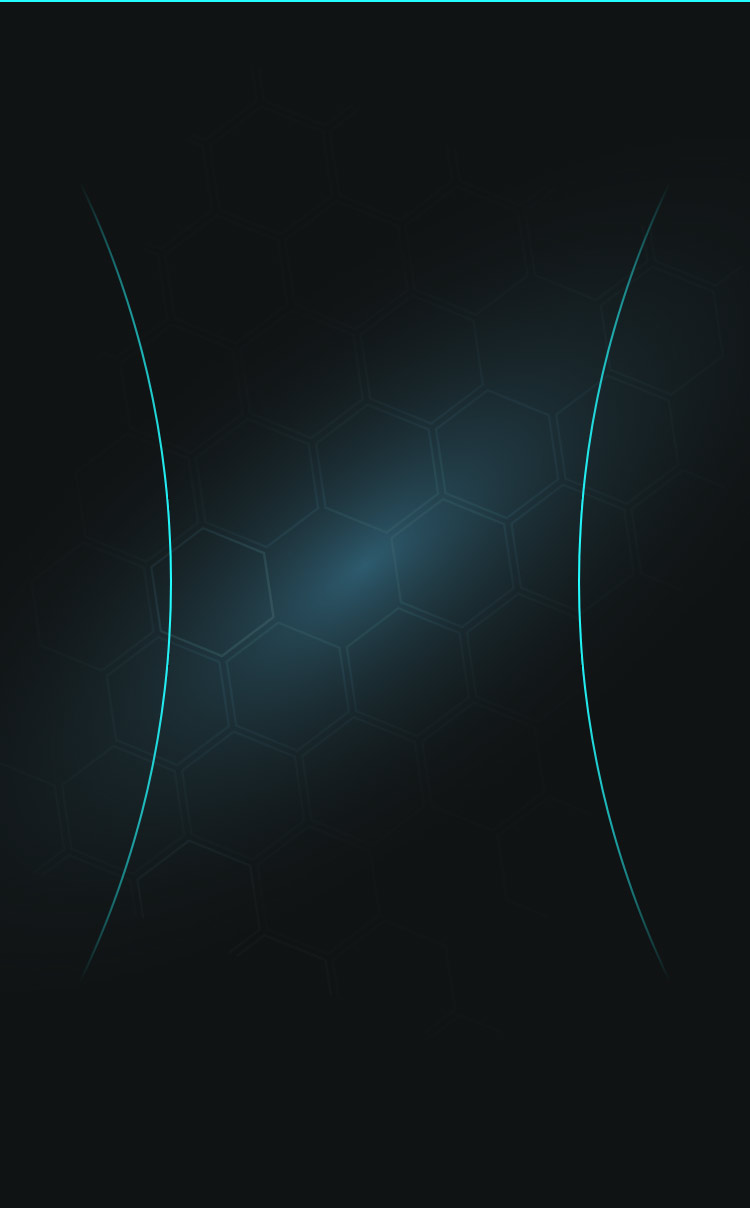
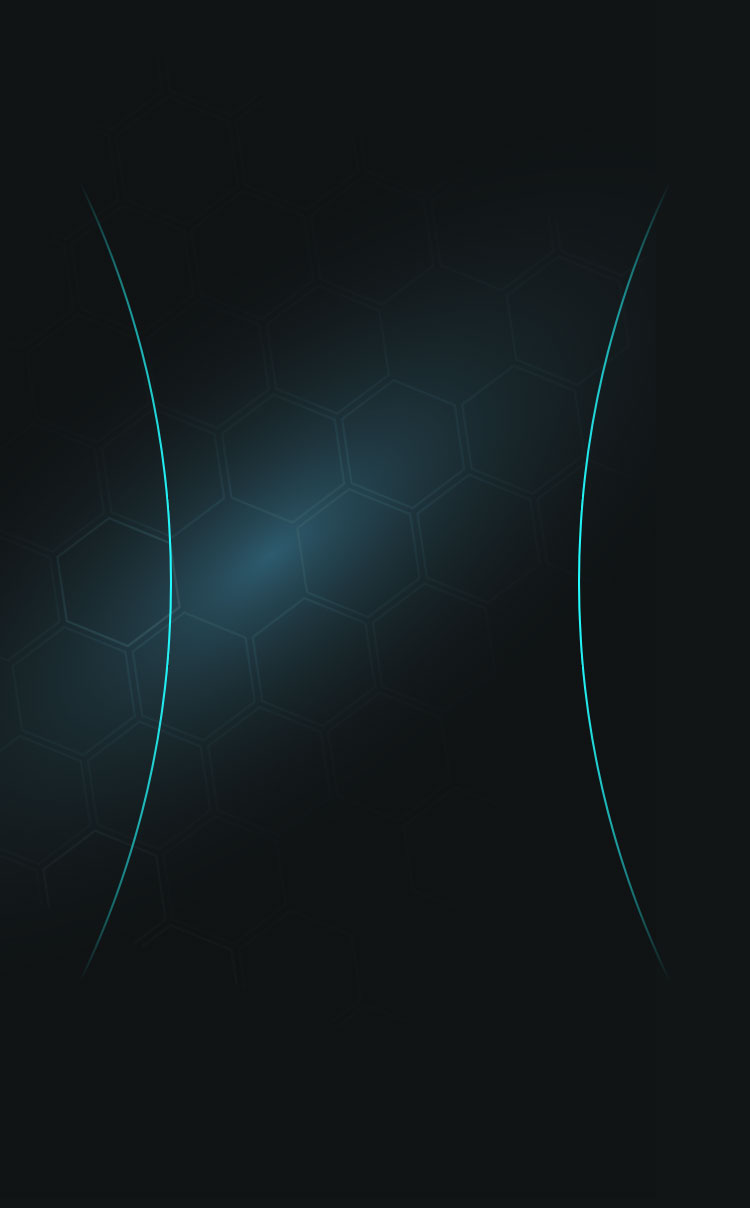
调整首页布局。

diff --git a/src/pages/index.js b/src/pages/index.js
@@ -85,49 +85,51 @@ export default class Index extends Component {
   render() {
     const { activeNode, modelVis, firePrice = 0.4025 } = this.state;
     return (
-      <View className='index page'>
-        {
-          this.editions.map(item =>
-          <View
-            key={item.edition}
-            onClick={this.changeVersion.bind(this,item.edition)}
-            className={`BoxAvatar ${item.edition} ${activeNode === null ? '' : item.edition === activeNode ? 'acShow' : 'acHide'}`}
-          >
-            <Image
-              src={item.img}
-              mode='aspectFill'
-              className='indexAtAvatar'
-            />
-          </View>
-          )
-        }
-        <Image
-          src={require('../assets/fire.png')}
-          className='frieImage'
-          onClick={this.showModel}
-        />
-        <AtModal
-          isOpened={modelVis}
-          onClose={this.handleClose}
-          onCancel={this.handleClose}
-          onConfirm={this.handleClose}
-          className='formContent'
-        >
-          <AtModalContent>
-            <AtForm
-              onSubmit={this.handleSubmit}
-              className='formBoder'
+      <View className='page indexPage'>
+        <View className='index'>
+          {
+            this.editions.map(item =>
+            <View
+              key={item.edition}
+              onClick={this.changeVersion.bind(this,item.edition)}
+              className={`BoxAvatar ${item.edition} ${activeNode === null ? '' : item.edition === activeNode ? 'acShow' : 'acHide'}`}
             >
-              <AtInput
-                name='value'
-                title='火电价格'
-                type='number'
-                placeholder={`默认火电价格${firePrice}`}
+              <Image
+                src={item.img}
+                mode='aspectFill'
+                className='indexAtAvatar'
               />
-              <AtButton formType='submit' width='100px' className='sumitButton'>确定</AtButton>
-            </AtForm>
-          </AtModalContent>
-        </AtModal>
+            </View>
+            )
+          }
+          <Image
+            src={require('../assets/fire.png')}
+            className='frieImage'
+            onClick={this.showModel}
+          />
+          <AtModal
+            isOpened={modelVis}
+            onClose={this.handleClose}
+            onCancel={this.handleClose}
+            onConfirm={this.handleClose}
+            className='formContent'
+          >
+            <AtModalContent>
+              <AtForm
+                onSubmit={this.handleSubmit}
+                className='formBoder'
+              >
+                <AtInput
+                  name='value'
+                  title='火电价格'
+                  type='number'
+                  placeholder={`默认火电价格${firePrice}`}
+                />
+                <AtButton formType='submit' width='100px' className='sumitButton'>确定</AtButton>
+              </AtForm>
+            </AtModalContent>
+          </AtModal>
+        </View>
       </View>
     )
   }

diff --git a/src/pages/index.less b/src/pages/index.less
@@ -1,6 +1,28 @@
+
+#app{
+    .page{
+        &.indexPage{
+            width: 100%;
+            height: 100%;
+            background-color: #111516;
+            box-sizing: border-box;
+            border-top: 1PX solid #1BDCE3;
+        }
+        .index{
+            width: 750px;
+            height: 1208px;
+            background-size: 100%;
+            position: absolute;
+            top: 50%;
+            left: 50%;
+            margin-top: -604px;
+            margin-left: -375px;
+        }
+    }
+}
 .index{
     position: relative;
-    width: 100%;
+    width: 750px;
     height: 100%;
     background-repeat: no-repeat;
     background-size: cover;
@@ -29,8 +51,8 @@
             top: 630px;
         }
         &.acShow{
-            // 可能不是很居中，是设计图背景是包含了头部的，具体情况需要根据手机显示情况进行调整。
-            top: 344px;
+            // 可能不是很居中，是设计图背景是包含了头部的，具体情况需要根据手机显示情况进行调整。1208
+            top: 408px;
             transition: top 0.3s ease-in 0.3s;
             animation: RotateBox 5s linear 0.3s infinite;
             .indexAtAvatar{
